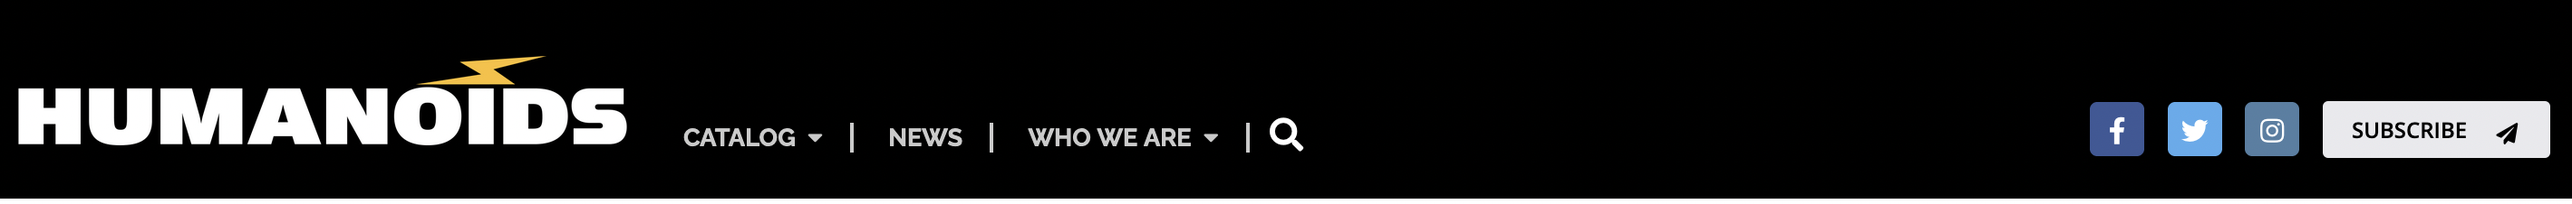
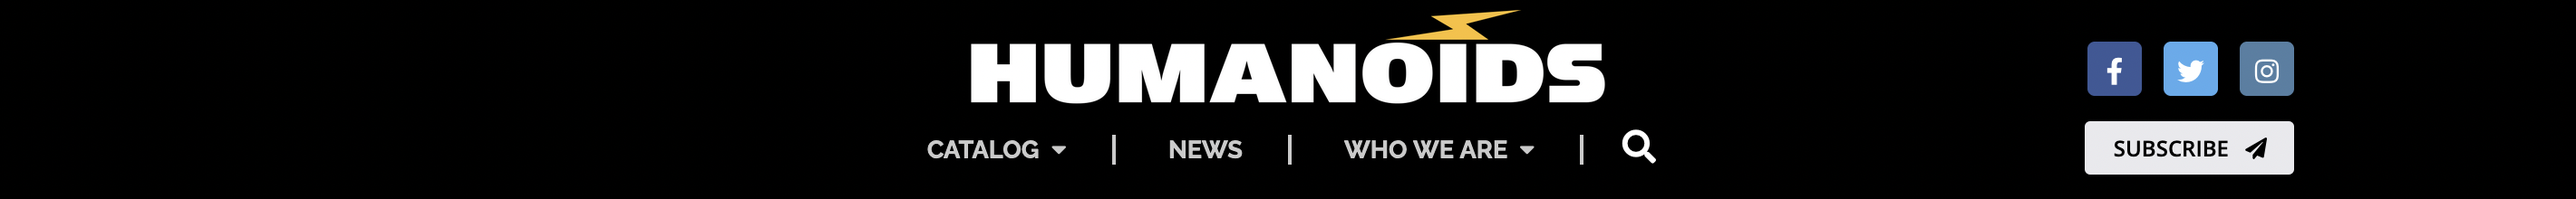
updated page header

diff --git a/css/main.css b/css/main.css
@@ -74,7 +74,7 @@ img {
 }
 
 .news__body {
-  font-family: Open Sans, sans-serif;
+  font-family: "Open Sans", sans-serif;
   margin-top: 5px;
 }
 
@@ -113,7 +113,7 @@ img {
 
 .button__details,
 .button__subscribe {
-  font-family: Open Sans, sans-serif; 
+  font-family: "Open Sans", sans-serif; 
   background-color: #ffbb00;
   color: #ffffff;
   text-transform: uppercase;
@@ -146,6 +146,7 @@ img {
 #image__header {
   max-width: 350px;
   margin-top: 50px;
+  margin-left: 10px;
 }
 
 .top-nav {
@@ -161,6 +162,7 @@ img {
   flex-wrap: wrap;
   text-decoration: none;
   list-style: none;
+  margin-top: 85px;
 }
 .main-nav i {
   color: #cdcdcd;
@@ -171,6 +173,7 @@ img {
   font-weight: 700;
   font-size: 90%;
   padding: 0 10px;
+  
   text-decoration: none;
   list-style: none;
 }
@@ -198,7 +201,7 @@ img {
 }
 
 .button__subscribe--white {
-  font-family: Open Sans, sans-serif; 
+  font-family: "Open Sans", sans-serif; 
   background-color: #ffffff;
   color: #000000;
   text-transform: uppercase;
@@ -225,6 +228,11 @@ img {
   max-width: 900px;
 }
 
+.visual-fix-container > * {
+  min-width: 100%;
+  min-height: 100%;
+}
+
 .image-gallery {
   display: block;
   width: 100%;
@@ -244,9 +252,6 @@ img {
 .upcoming__title {
   color: #ffbb00;
 }
-.visual-fix-container {
-
-}
 .new__grid {
   display: grid;
   grid-template-columns: 1fr 1fr 1fr 1fr;
@@ -261,7 +266,7 @@ img {
 }
 
 .side-button {
-  font-family: Open Sans, sans-serif;
+  font-family: "Open Sans", sans-serif;
   display: block;
   float: right;
   margin-top: 10px;
@@ -285,7 +290,6 @@ font-size: 14px;
 
 .info {
   text-align: center;
-  text-align: inline-block;
   padding-top: 20px;
 }
 
@@ -299,7 +303,7 @@ font-size: 14px;
 
 .info__tagline {
   color: #cdcdcd;
-  font-family: Open Sans, sans-serif;
+  font-family: "Open Sans", sans-serif;
   font-size: 85%;
   padding-bottom: 25px;
   border-bottom: 1px solid #777777;
@@ -317,7 +321,7 @@ font-size: 14px;
   color: #ffffff;
   border: 1px solid #252626;
   border-radius: 5px;
-  font-family: Open Sans, sans serif;
+  font-family: "Open Sans", sans-serif;
   padding-top: 7px;
   padding-right: 50px;
   padding-bottom: 7px;
@@ -325,7 +329,7 @@ font-size: 14px;
 }
 
 .button__subscribe--email {
-  font-family: Open Sans, sans-serif; 
+  font-family: "Open Sans", sans-serif; 
   background-color: #ffbb00;
   color: #ffffff;
   text-transform: uppercase;
@@ -412,7 +416,7 @@ font-size: 14px;
 }
 
 .footer__list {
-  font-family: Open Sans, sans-serif;
+  font-family: "Open Sans", sans-serif;
   list-style: none;
   line-height: 1.5;
   font-size: 80%;

diff --git a/components/index.html b/components/index.html
@@ -101,9 +101,9 @@
                         alt="header"></a>
                 <nav>
                     <ul class="main-nav">
-                        <li class="nav__item"><a href="#!">Catalog <i class="fa-solid fa-caret-down"></i></a>|</li>
-                        <li class="nav__item"><a href="#!">News </a></li>
-                        <li class="nav__item"><a href="#!">Who We Are <i class="fa-solid fa-caret-down"></i></a>|</li>
+                        <li class="nav__item"><a href="#!">Catalog <i class="fa-solid fa-caret-down"></i>|</a></li>
+                        <li class="nav__item"><a href="#!">News |</a></li>
+                        <li class="nav__item"><a href="#!">Who We Are <i class="fa-solid fa-caret-down"></i>|</a></li>
                         <li class="nav__item"><a href="#!"><i class="fa-solid fa-magnifying-glass" id="header__glass"></i></a></li>
                         </ul>
                     </nav>
@@ -115,6 +115,7 @@
                     <p class="button__subscribe--white"><a href="#!">Subscribe<i class="fa-solid fa-paper-plane" id="icon__black"></i></a></p>
                     </div>
                     </div>
+            </div>
             </div>
             </article>
         

diff --git a/index.html b/index.html
@@ -4,9 +4,15 @@
         <meta charset="UTF-8">
         <meta http-equiv="X-UA-Compatible" content="IE=edge">
         <meta name="viewport" content="width=device-width, initial-scale=1.0">
-        <title>Humanoids Case Study</title>
+        <title>Humanoids</title>
+        <link rel="preconnect" href="https://fonts.googleapis.com">
+        <link rel="preconnect" href="https://fonts.gstatic.com" crossorigin>
+        <link href="https://fonts.googleapis.com/css2?family=Open+Sanswght@400;600&family=Raleway:wght@700;900&display=swap" rel="stylesheet"> 
+        <link rel="stylesheet" href="/css/normalize.css">
+        <link rel="stylesheet" href="/css/main.css">
+        <script src="https://kit.fontawesome.com/b77782cda6.js" crossorigin="anonymous"></script>
 
-    <body>
+    <body class="home-page">
         
 
     </body>
